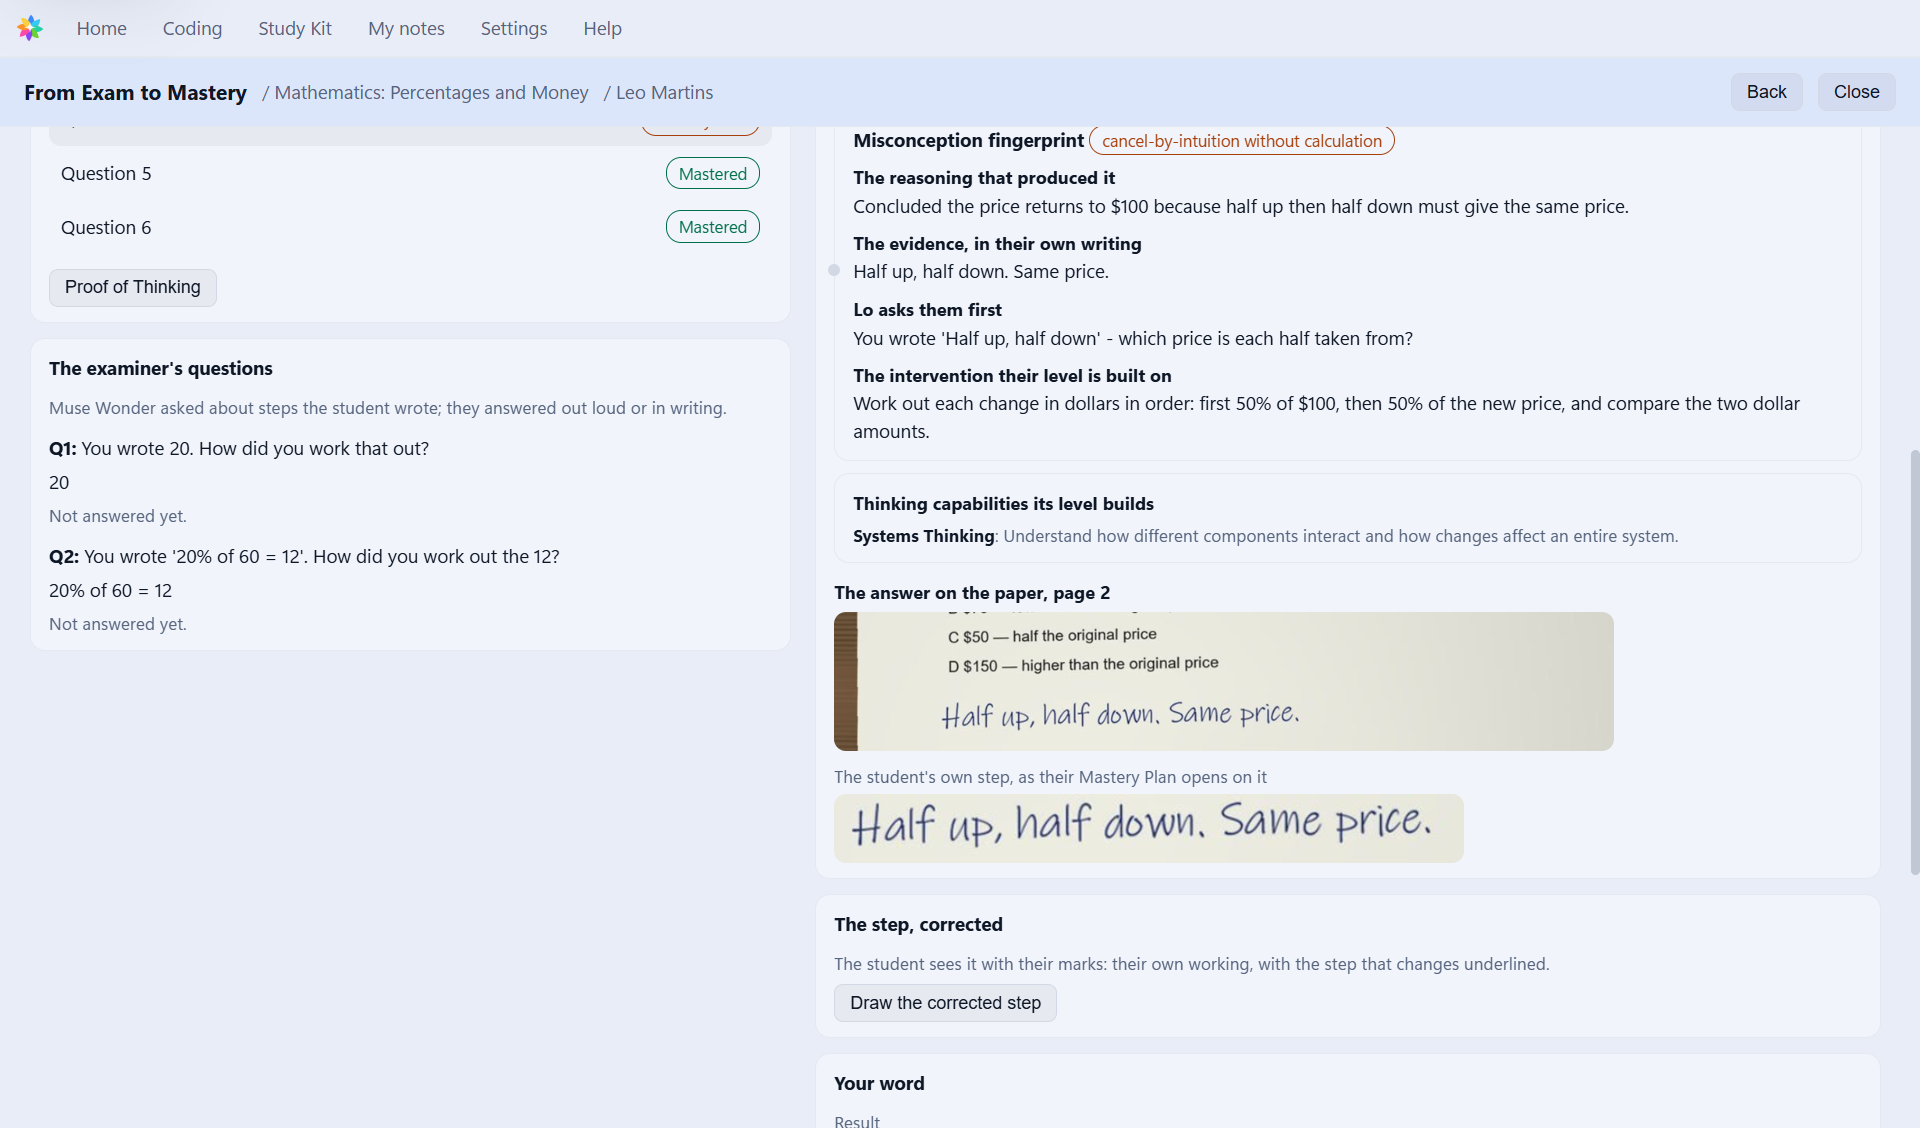
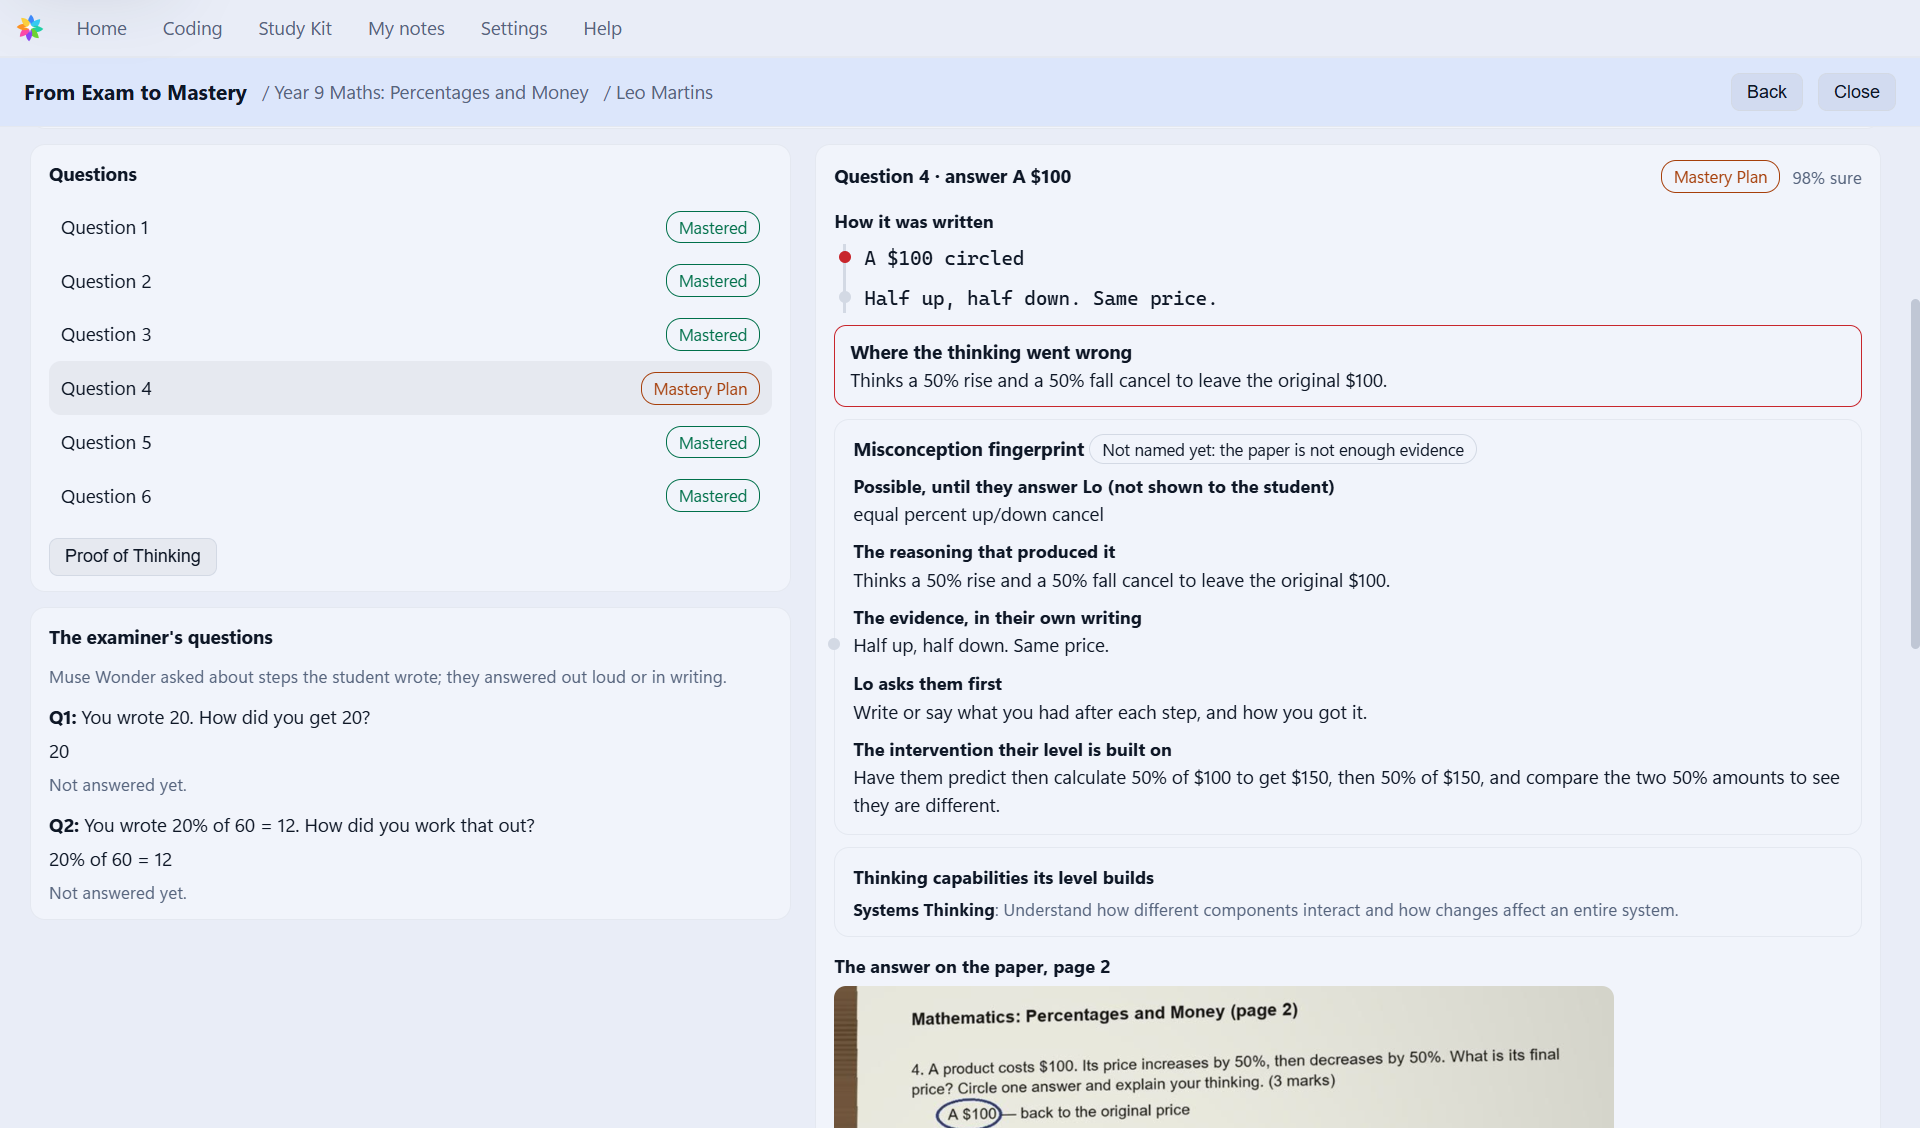
While Lo asks, the diagnosis says only what the page shows; the examiner asks about what was not mastered

diff --git a/desk/witness-desk.js b/desk/witness-desk.js
@@ -524,12 +524,14 @@
   function fingerprintCard(f) {
     if (!f) return '';
     var row = function (label, html) { return html ? '<div style="margin-top:6px"><b style="font-size:12px">' + label + '</b><div>' + html + '</div></div>' : ''; };
+    // while Lo still asks, the marking's reading is a guess, and says so
+    var guessing = !f.misconception && !!f.ask && !(f.said || []).length;
     var said = (f.said || []).map(function (x) { return '<div class="wd-sub">Lo asked: ' + esc(x.ask) + '</div><div>They said: “' + esc(x.text) + '”</div>' + listen(x.audio, 'Their answer to Lo, out loud'); }).join('');
     return '<div class="wd-card" style="margin:8px 0"><b>Misconception fingerprint</b> ' +
       (f.misconception ? '<span class="wd-chip warn">' + esc(f.misconception) + '</span>' : '<span class="wd-chip">Not named yet: the paper is not enough evidence</span>') +
       // 30 Oct (judges' panel): nothing is named while Lo asks; the model's guess waits here, for the teacher only
       (!f.misconception && f.possible ? row('Possible, until they answer Lo (not shown to the student)', esc(f.possible)) : '') +
-      row('The reasoning that produced it', esc(f.reasoning || '')) +
+      row(guessing ? 'What the marking read (a guess until they answer Lo)' : 'The reasoning that produced it', esc(f.reasoning || '')) +
       row('The evidence, in their own writing', (f.evidence || []).map(function (e) { return '<div class="wd-step" style="opacity:1">' + esc(e) + '</div>'; }).join('')) +
       row('What they told Lo', said) +
       (f.ask ? row('Lo asks them first', esc(f.ask)) : '') +
